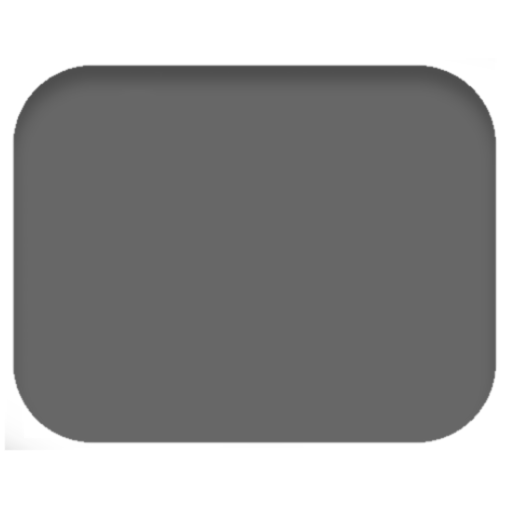
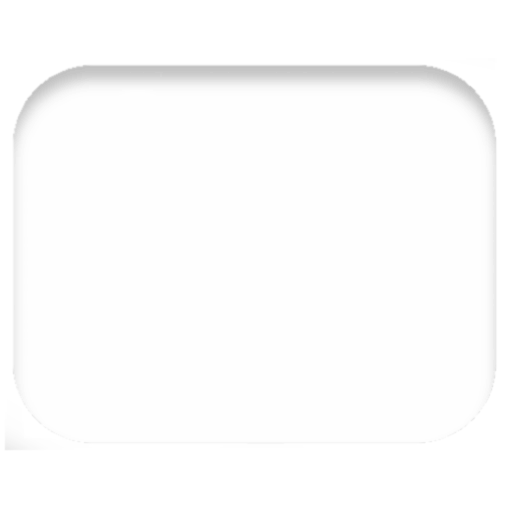
同上

diff --git a/Editor/EditorWindow/Common/PlateauEditorStyle.cs b/Editor/EditorWindow/Common/PlateauEditorStyle.cs
@@ -414,10 +414,13 @@ namespace PLATEAU.Editor.EditorWindow.Common
                 for (int i = 0; i < tabCount; i++)
                 {
                     var buttonStyle = new GUIStyle(baseStyle);
+                    var prevBackgroundColor = GUI.backgroundColor;
                     if (i == currentTabIndex)
                     {
-                        // buttonStyle.normal.background = ColoredTexture(colorDarkBoxSelectedElement);
+                        ColorUtility.TryParseHtmlString(colorDarkBoxSelectedElement, out var selectedColorTint);
+                        GUI.backgroundColor = selectedColorTint;
                         buttonStyle.normal.background = buttonBackground;
+                        
                     }
                     else
                     {
@@ -428,6 +431,7 @@ namespace PLATEAU.Editor.EditorWindow.Common
                     {
                         nextTabIndex = i;
                     }
+                    GUI.backgroundColor = prevBackgroundColor;
                 }
 
                 EditorGUILayout.Space();
